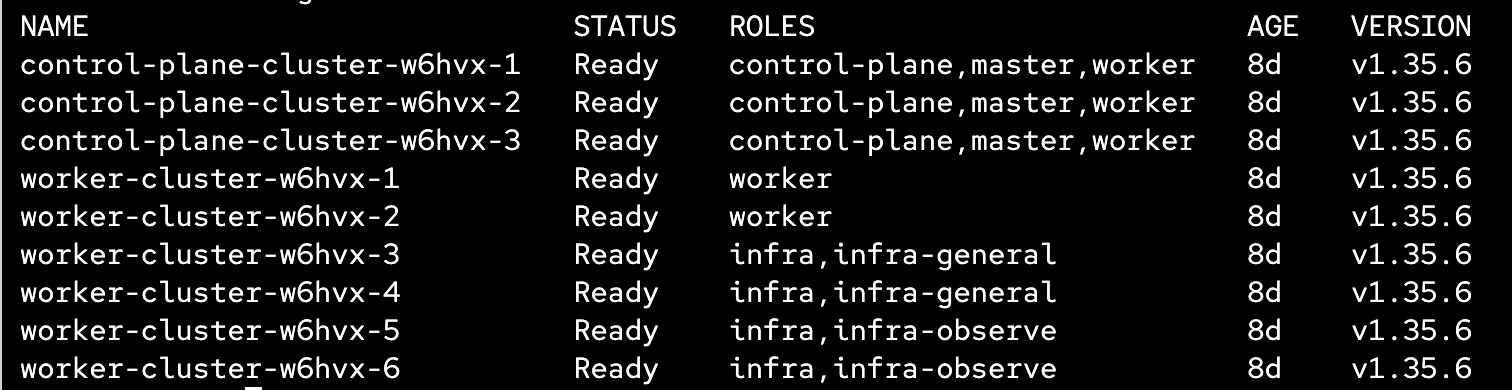
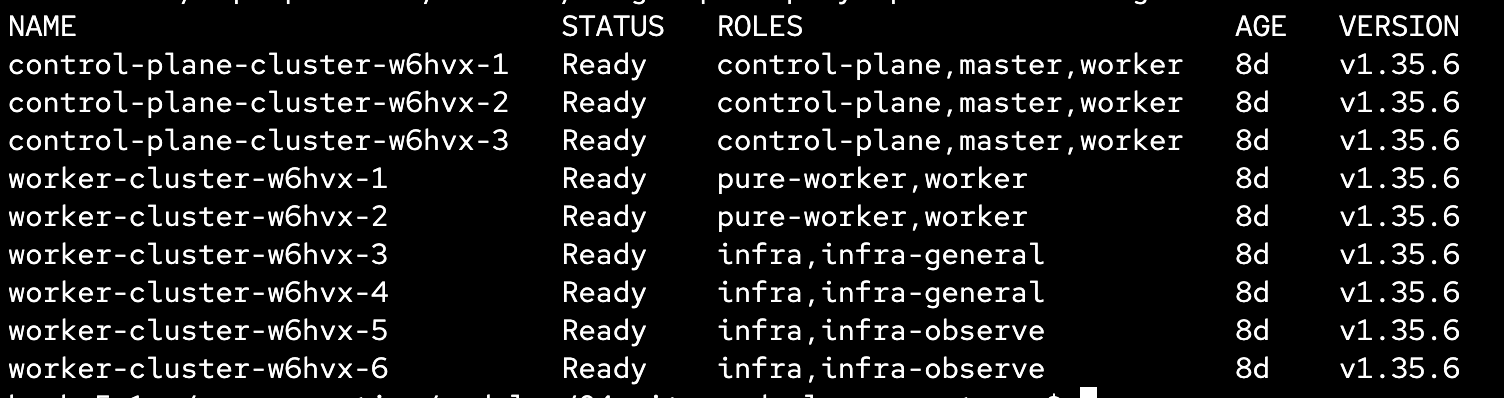
fix: update 04 master worker for compliance

diff --git a/modules/04-gitops-deploy-operators/README.md b/modules/04-gitops-deploy-operators/README.md
@@ -8,7 +8,7 @@ This module demonstrates deploying the **Compliance Operator** via OpenShift Git
 
 - OpenShift Gitops Operator deployed
 
-- Cluster nodes should be ready with the expected roles (control-plane, infra) - because the compliance operator scansetting matched role:
+- Cluster nodes should be ready with the expected roles (control-plane, infra, pure-worker) - because the compliance operator scansetting matched role:
 
 ![oc get nodes](../../img/module-04/oc-get-nodes.png)
 
